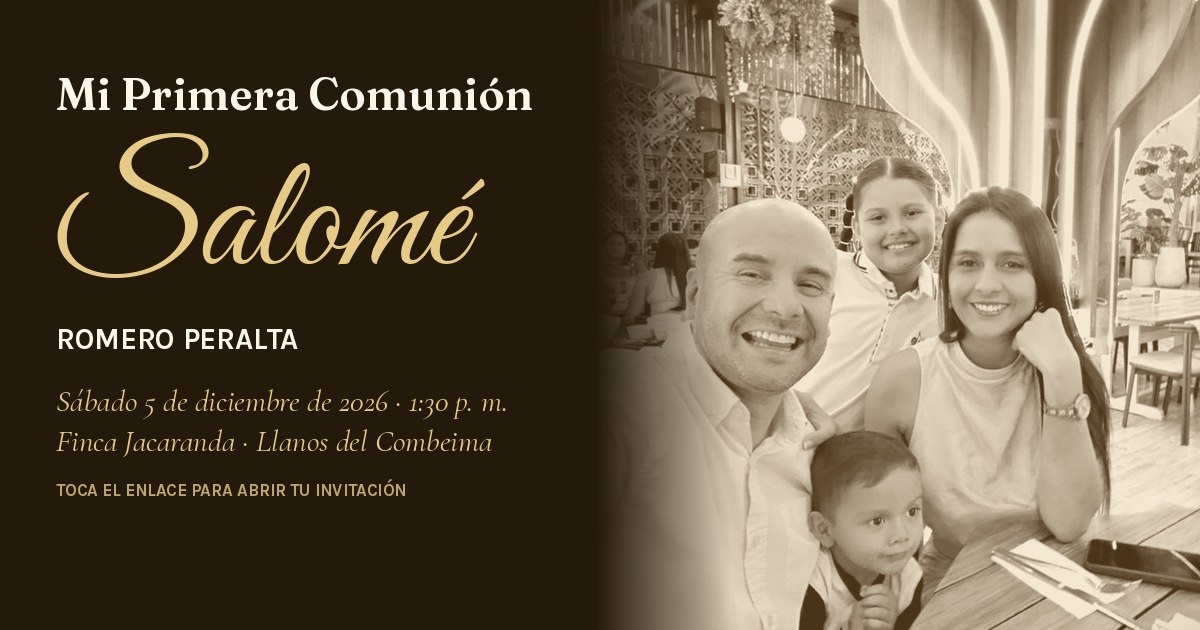
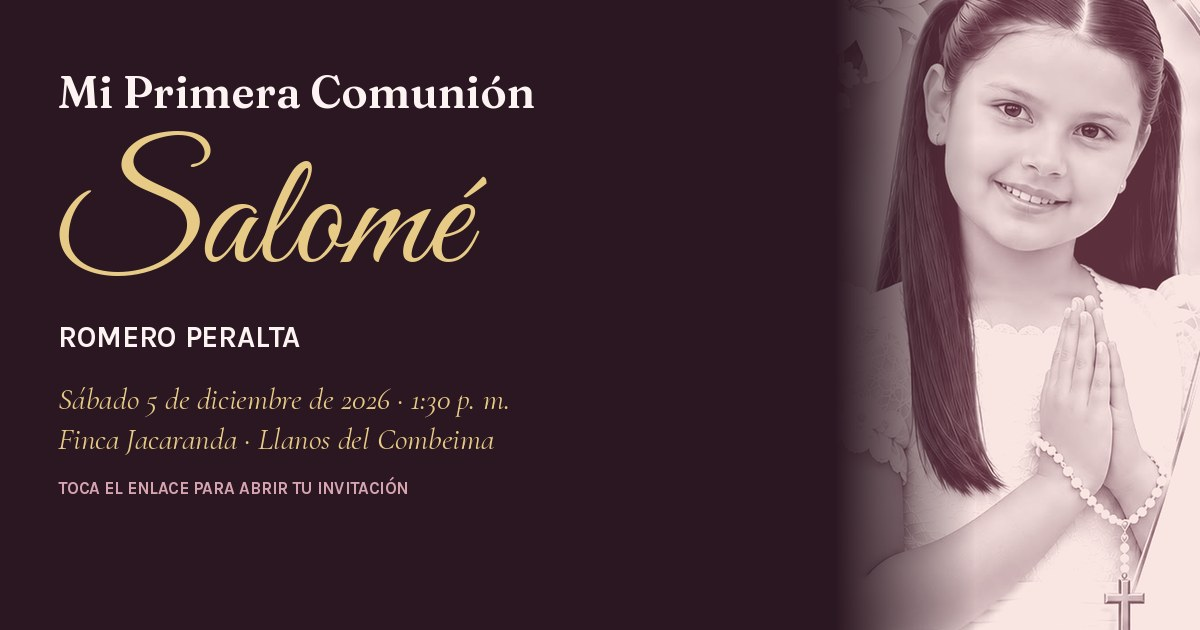
Salomé: paleta rosa empolvado y dorado, con su foto de la tarjeta
Claude-Session: https://claude.ai/code/session_01JtCYz5RVQ7QZ5WLgWgtnaq

diff --git a/salome.html b/salome.html
@@ -13,14 +13,14 @@
 <meta property="og:image:width" content="1200">
 <meta property="og:image:height" content="630">
 <meta name="twitter:card" content="summary_large_image">
-<meta name="theme-color" content="#3A2A12">
+<meta name="theme-color" content="#432737">
 <link rel="preconnect" href="https://fonts.googleapis.com">
 <link href="https://fonts.googleapis.com/css2?family=Fraunces:ital,opsz,wght@0,9..144,300;0,9..144,600;1,9..144,300;1,9..144,500&family=Cormorant+Garamond:ital,wght@1,400;1,500&family=Great+Vibes&family=Karla:wght@400;500;700&display=swap" rel="stylesheet">
 <style>
   :root{
     --oro:#C9A24B; --oro-claro:#E6CA85; --oro-osc:#A8822F;
-    --cafe:#4A3418; --cafe-osc:#241A0C; --tinta:#3A2A12;
-    --crema:#FBF6EC; --beige:#F3E8D2; --arena:#DEC9A0; --lirio:#9C8A62;
+    --cafe:#6B3A4C; --cafe-osc:#2B1721; --tinta:#432737;
+    --crema:#FCF3F2; --beige:#F8E4E2; --arena:#E6C3C0; --lirio:#B58A93;
     --display:'Fraunces',Georgia,serif; --script:'Great Vibes',cursive;
     --italic:'Cormorant Garamond',Georgia,serif; --body:'Karla',system-ui,sans-serif;
   }
@@ -36,10 +36,10 @@
   .hero{position:relative;min-height:100svh;display:flex;flex-direction:column;justify-content:flex-end;align-items:center;text-align:center;
     padding:0 22px 40px;color:var(--crema);background:var(--cafe-osc);overflow:hidden}
   .hero .blur{position:absolute;inset:-40px;background:url(assets/familia-salome.jpg) center/cover no-repeat;filter:blur(24px) brightness(.4);opacity:.9}
-  .hero .veil{position:absolute;inset:0;background:linear-gradient(180deg,rgba(36,26,12,0) 34%,rgba(36,26,12,.9) 56%,#241A0C 64%)}
+  .hero .veil{position:absolute;inset:0;background:linear-gradient(180deg,rgba(43,23,33,0) 34%,rgba(43,23,33,.9) 56%,#2B1721 64%)}
   .hero .foto{position:relative;width:100%;margin:9vh 0 0;animation:paint 2.2s cubic-bezier(.2,.7,.2,1) both}
   .hero .foto img{width:100%;display:block}
-  .hero .foto::after{content:"";position:absolute;left:0;right:0;bottom:-2px;height:58%;background:linear-gradient(180deg,rgba(36,26,12,0) 0%,rgba(36,26,12,.85) 60%,#241A0C 100%)}
+  .hero .foto::after{content:"";position:absolute;left:0;right:0;bottom:-2px;height:58%;background:linear-gradient(180deg,rgba(43,23,33,0) 0%,rgba(43,23,33,.85) 60%,#2B1721 100%)}
   @keyframes paint{from{opacity:0;transform:scale(1.04)}to{opacity:1;transform:none}}
   .hero .txt{position:relative;margin-top:-12%}
   .hero .k{color:var(--oro-claro)}
@@ -63,7 +63,7 @@
   .lugar{padding:44px 0 6px}
   .lugar h2{font-family:var(--display);font-weight:600;font-size:2rem;line-height:1.05;color:var(--cafe);margin:8px 0 4px}
   .lugar .t{font-family:var(--italic);font-style:italic;font-size:1.3rem;color:var(--oro-osc)}
-  .lugar p{margin-top:10px;color:#5d4a2c;font-size:.98rem}
+  .lugar p{margin-top:10px;color:#6E4A58;font-size:.98rem}
   .reveal{opacity:0;transform:translateY(16px);transition:opacity .7s,transform .7s}
   .on .reveal{opacity:1;transform:none}
 
@@ -87,7 +87,7 @@
   .rsvp{padding:60px 22px 30px;text-align:center}
   .rsvp h2{font-family:var(--display);font-weight:300;font-size:1.9rem;color:var(--cafe)}
   .rsvp h2 b{font-weight:600;font-style:italic}
-  .rsvp>p{margin:8px auto 0;max-width:34ch;color:#5d4a2c}
+  .rsvp>p{margin:8px auto 0;max-width:34ch;color:#6E4A58}
   .count{display:flex;justify-content:center;gap:18px;margin:26px 0 8px}
   .count div{min-width:58px}
   .count b{display:block;font-family:var(--display);font-weight:600;font-size:2rem;color:var(--cafe);line-height:1}
@@ -111,7 +111,7 @@
   .ok{text-align:center;padding:10px 0}
   .ok h3{font-family:var(--display);font-weight:600;color:var(--cafe);font-size:1.6rem}
   .ok p{margin-top:6px}
-  .parents{margin-top:54px;padding-top:24px;border-top:1px solid var(--arena);font-family:var(--italic);font-style:italic;color:#7a6542;font-size:1.1rem}
+  .parents{margin-top:54px;padding-top:24px;border-top:1px solid var(--arena);font-family:var(--italic);font-style:italic;color:#9A6E7C;font-size:1.1rem}
   .parents b{display:block;font-style:normal;font-family:var(--display);font-weight:600;color:var(--cafe);margin-top:4px}
   footer{padding:24px;text-align:center;font-size:.7rem;letter-spacing:.18em;text-transform:uppercase;color:var(--lirio)}
 
@@ -133,7 +133,7 @@
 <!-- ===================== HERO ===================== -->
 <header class="hero">
   <div class="blur" aria-hidden="true"></div>
-  <div class="foto"><img src="assets/familia-salome.jpg" alt="Salomé con su familia"></div>
+  <div class="foto"><img src="assets/familia-salome.jpg" alt="Salomé"></div>
   <div class="veil" aria-hidden="true"></div>
   <div class="txt">
     <div class="k">Tienes una invitación</div>
@@ -141,7 +141,7 @@
     <div class="name">Salomé</div>
     <div class="ribbon">Romero Peralta</div>
     <div class="date" id="fecha"></div>
-    <svg class="cross" viewBox="0 0 24 24" fill="none" stroke="currentColor" stroke-width="1.4" stroke-linecap="round"><path d="M12 2v20M5 8h14"/><circle cx="12" cy="8" r="3.2" fill="#241A0C"/></svg>
+    <svg class="cross" viewBox="0 0 24 24" fill="none" stroke="currentColor" stroke-width="1.4" stroke-linecap="round"><path d="M12 2v20M5 8h14"/><circle cx="12" cy="8" r="3.2" fill="#2B1721"/></svg>
     <div class="scrollhint">Desliza para ver los detalles ↓</div>
   </div>
 </header>

diff --git a/salome-lista.html b/salome-lista.html
@@ -7,12 +7,12 @@
 <title>Confirmaciones · Salomé</title>
 <link href="https://fonts.googleapis.com/css2?family=Fraunces:ital,wght@0,300;0,600;1,300&family=Great+Vibes&family=Karla:wght@400;500;700&display=swap" rel="stylesheet">
 <style>
-  :root{--oro:#C9A24B;--oro-claro:#E6CA85;--oro-osc:#A8822F;--cafe:#4A3418;--crema:#FBF6EC;--beige:#F3E8D2;--arena:#DEC9A0;--tinta:#3A2A12;--rojo:#8a3b2a;--verde:#5E7A4C}
+  :root{--oro:#C9A24B;--oro-claro:#E6CA85;--oro-osc:#A8822F;--cafe:#6B3A4C;--crema:#FCF3F2;--beige:#F8E4E2;--arena:#E6C3C0;--tinta:#432737;--rojo:#8a3b2a;--verde:#5E7A4C}
   *{box-sizing:border-box;margin:0;padding:0}
   body{font-family:Karla,system-ui,sans-serif;background:var(--crema);color:var(--tinta);line-height:1.45}
   .wrap{width:min(100%,560px);margin:0 auto;padding:20px 16px 80px}
   h1{font-family:'Great Vibes',cursive;font-weight:400;color:var(--oro-osc);font-size:3rem;line-height:1}
-  .sub{font-family:Fraunces,serif;font-style:italic;font-weight:300;color:#7a6542;margin-top:2px}
+  .sub{font-family:Fraunces,serif;font-style:italic;font-weight:300;color:#9A6E7C;margin-top:2px}
   .k{font-size:.68rem;letter-spacing:.18em;text-transform:uppercase;color:var(--oro-osc);font-weight:700}
   input,textarea{width:100%;padding:11px 13px;border:1px solid var(--arena);border-radius:12px;background:#fff;font:inherit;font-size:1rem;color:var(--tinta)}
   .btn{display:inline-flex;align-items:center;justify-content:center;gap:8px;padding:11px 16px;border-radius:999px;border:1px solid var(--cafe);background:var(--cafe);color:var(--crema);font:inherit;font-weight:700;font-size:.88rem;cursor:pointer;text-decoration:none;white-space:nowrap}
@@ -35,13 +35,13 @@
   .name{font-family:Fraunces,serif;font-weight:600;font-size:1.1rem;color:var(--cafe);line-height:1.15}
   .pill{font-size:.72rem;font-weight:700;padding:4px 10px;border-radius:999px;background:var(--oro-claro);color:var(--cafe);white-space:nowrap}
   .pill.no{background:var(--arena)}
-  .meta{font-size:.84rem;color:#7a6542;margin-top:5px}
+  .meta{font-size:.84rem;color:#9A6E7C;margin-top:5px}
   .meta a{color:var(--cafe);font-weight:700;text-decoration:none}
   .quote-msg{font-style:italic;border-left:3px solid var(--oro);padding-left:10px;margin-top:8px}
   .acts{margin-top:10px;display:flex;gap:14px;justify-content:flex-end;align-items:center;flex-wrap:wrap}
   .lnk{background:transparent;border:0;color:var(--cafe);font:inherit;font-size:.8rem;font-weight:700;cursor:pointer;text-decoration:underline}
   .lnk.del{color:var(--rojo);font-weight:400} .lnk.gold{color:var(--oro-osc)}
-  .empty{text-align:center;color:#7a6542;padding:36px 0;font-family:Fraunces,serif;font-style:italic}
+  .empty{text-align:center;color:#9A6E7C;padding:36px 0;font-family:Fraunces,serif;font-style:italic}
   .seg{display:grid;grid-template-columns:1fr 1fr;gap:8px;margin-top:4px}
   .grid2{display:grid;grid-template-columns:1fr 1fr;gap:8px;margin-top:8px}
   .hide{display:none}
@@ -169,13 +169,13 @@ $("pdf").onclick = () => {
   const si = conf.filter(d=>d.asiste), no = conf.filter(d=>!d.asiste);
   const ad = si.reduce((a,d)=>a+ +d.adultos,0), ni = si.reduce((a,d)=>a+ +d.ninos,0);
   const { jsPDF } = window.jspdf; const doc = new jsPDF({unit:"mm", format:"a4"});
-  doc.setFillColor(74,52,24); doc.rect(0,0,210,30,"F");
+  doc.setFillColor(107,58,76); doc.rect(0,0,210,30,"F");
   doc.setTextColor(230,202,133); doc.setFont("helvetica","bold"); doc.setFontSize(16); doc.text("Primera Comunión · Salomé Romero Peralta", 14, 13);
   doc.setTextColor(251,246,236); doc.setFont("helvetica","normal"); doc.setFontSize(10); doc.text("Sábado 5 de diciembre de 2026 · 1:30 p. m. · Finca Jacaranda, Llanos del Combeima", 14, 20);
-  doc.setTextColor(74,52,24); doc.setFont("helvetica","bold"); doc.setFontSize(14); doc.text("Lista de confirmados", 14, 40);
-  doc.setFont("helvetica","normal"); doc.setFontSize(10); doc.setTextColor(122,101,66);
+  doc.setTextColor(107,58,76); doc.setFont("helvetica","bold"); doc.setFontSize(14); doc.text("Lista de confirmados", 14, 40);
+  doc.setFont("helvetica","normal"); doc.setFontSize(10); doc.setTextColor(154,106,118);
   doc.text(`${si.length} respuestas · ${ad} adultos · ${ni} niños · ${ad+ni} personas · ${no.length} no asisten`, 14, 46);
-  const estilo = { headStyles:{fillColor:[74,52,24], textColor:[230,202,133]}, alternateRowStyles:{fillColor:[243,232,210]}, styles:{font:"helvetica", fontSize:8.5, cellPadding:2.2}, margin:{left:14,right:14} };
+  const estilo = { headStyles:{fillColor:[107,58,76], textColor:[230,202,133]}, alternateRowStyles:{fillColor:[248,228,226]}, styles:{font:"helvetica", fontSize:8.5, cellPadding:2.2}, margin:{left:14,right:14} };
   doc.autoTable({ ...estilo, startY:52, head:[["#","Nombre","Celular","Adultos","Niños","Mensaje","Fecha"]],
     body: si.map((d,k)=>[k+1, d.nombre, d.telefono||"", d.adultos, d.ninos, d.mensaje||"", fecha(d.creado_en)]),
     columnStyles:{0:{cellWidth:8},3:{halign:"center",cellWidth:16},4:{halign:"center",cellWidth:14},6:{cellWidth:26}} });
